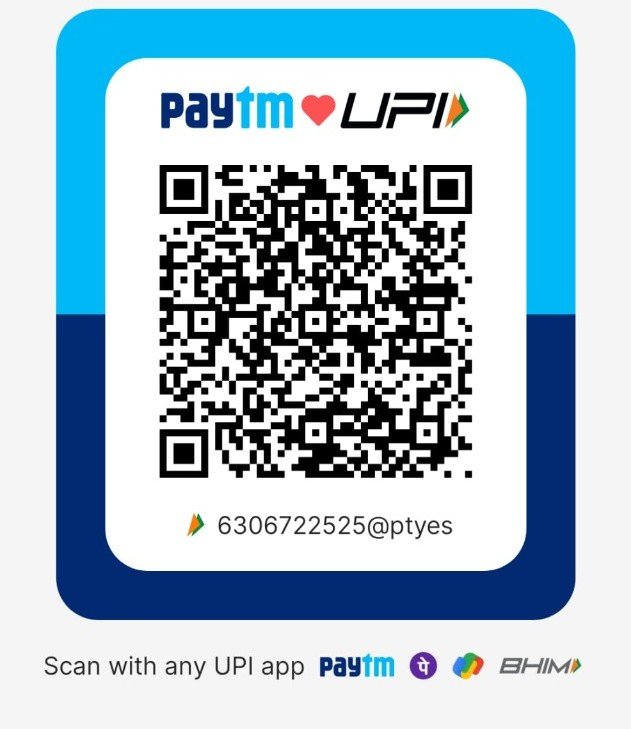
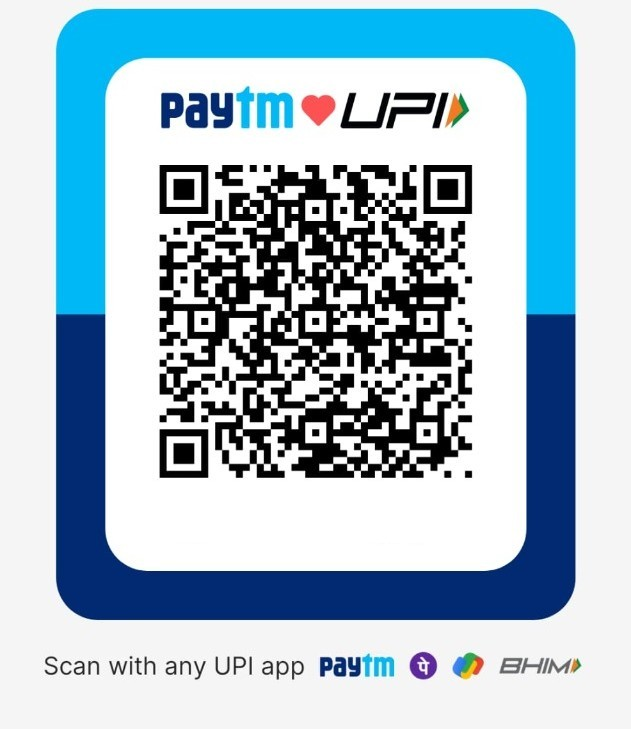
fix(payment): remove UPI ID from QR image, booking modal, backend, and documentation

Changed region(s): [[0.3011, 0.6941, 0.7227, 0.7545]]

diff --git a/client/src/components/appointment/BookingModal.jsx b/client/src/components/appointment/BookingModal.jsx
@@ -136,14 +136,7 @@ export default function BookingModal({ doctor, isOpen, onClose, onBookingSuccess
     return `${String(mins).padStart(2, '0')}:${String(secs).padStart(2, '0')}`;
   };
 
-  // Copy UPI ID to clipboard
-  const handleCopyUPI = () => {
-    if (navigator.clipboard) {
-      navigator.clipboard.writeText('6306722525@ptyes');
-    }
-    setCopiedUpi(true);
-    setTimeout(() => setCopiedUpi(false), 2200);
-  };
+
 
   // Validate Step 1 and proceed to Step 2 (UPI Payment)
   const handleProceedToPayment = (e) => {
@@ -495,9 +488,9 @@ export default function BookingModal({ doctor, isOpen, onClose, onBookingSuccess
                 </div>
 
                 <div style={{ display: 'flex', justifyContent: 'space-between' }}>
-                  <span style={{ color: 'var(--slate-500)' }}>UPI ID:</span>
-                  <span style={{ fontFamily: 'monospace', fontWeight: 600, color: 'var(--slate-700)' }}>
-                    6306722525@ptyes
+                  <span style={{ color: 'var(--slate-500)' }}>Payment Method:</span>
+                  <span style={{ fontWeight: 600, color: 'var(--slate-700)' }}>
+                    UPI QR Code Payment
                   </span>
                 </div>
 
@@ -985,59 +978,9 @@ export default function BookingModal({ doctor, isOpen, onClose, onBookingSuccess
                   />
                 </div>
 
-                {/* UPI ID & Quick Copy Strip */}
-                <div
-                  style={{
-                    marginTop: '14px',
-                    display: 'inline-flex',
-                    alignItems: 'center',
-                    justifyContent: 'center',
-                    gap: '8px',
-                    background: '#f8fafc',
-                    border: '1px solid #e2e8f0',
-                    borderRadius: '30px',
-                    padding: '6px 14px',
-                  }}
-                >
-                  <span style={{ fontSize: '0.76rem', color: 'var(--slate-500)', fontWeight: 600 }}>UPI ID:</span>
-                  <code style={{ fontSize: '0.84rem', fontWeight: 700, color: 'var(--slate-900)' }}>
-                    6306722525@ptyes
-                  </code>
-                  <button
-                    type="button"
-                    onClick={handleCopyUPI}
-                    style={{
-                      background: copiedUpi ? '#dcfce7' : '#e0f2fe',
-                      color: copiedUpi ? '#15803d' : '#0369a1',
-                      border: 'none',
-                      borderRadius: '20px',
-                      padding: '3px 9px',
-                      fontSize: '0.72rem',
-                      fontWeight: 700,
-                      cursor: 'pointer',
-                      display: 'inline-flex',
-                      alignItems: 'center',
-                      gap: '4px',
-                      transition: 'var(--transition)',
-                    }}
-                  >
-                    {copiedUpi ? (
-                      <>
-                        <Check size={12} />
-                        <span>Copied!</span>
-                      </>
-                    ) : (
-                      <>
-                        <Copy size={12} />
-                        <span>Copy</span>
-                      </>
-                    )}
-                  </button>
-                </div>
-
                 {/* Instructions */}
-                <div style={{ marginTop: '12px', fontSize: '0.78rem', color: 'var(--slate-500)' }}>
-                  Scan using <strong>Paytm</strong>, <strong>PhonePe</strong>, <strong>Google Pay</strong>, or <strong>BHIM</strong>
+                <div style={{ marginTop: '16px', fontSize: '0.82rem', color: 'var(--slate-600)' }}>
+                  Scan with any UPI app: <strong>Paytm</strong>, <strong>PhonePe</strong>, <strong>Google Pay</strong>, or <strong>BHIM</strong>
                 </div>
               </div>
 

diff --git a/server/controllers/appointmentController.js b/server/controllers/appointmentController.js
@@ -88,7 +88,6 @@ exports.bookAppointment = async (req, res, next) => {
       paymentStatus: 'paid',
       paymentMethod: paymentMethod || 'UPI_QR',
       transactionId: transactionId || `UPI${Date.now()}${Math.floor(1000 + Math.random() * 9000)}`,
-      upiId: '6306722525@ptyes',
     });
 
     // Update the slot inside Availability collection

diff --git a/server/models/Appointment.js b/server/models/Appointment.js
@@ -81,7 +81,7 @@ const appointmentSchema = new mongoose.Schema(
     },
     upiId: {
       type: String,
-      default: '6306722525@ptyes',
+      default: '',
     },
     isReviewed: {
       type: Boolean,

diff --git a/README.md b/README.md
@@ -13,7 +13,7 @@
 - **Consultation & Digital Rx**: Symptom tracking, clinical diagnosis, interactive medicine schedules, and print-ready digital prescriptions.
 - **Enterprise JWT Security & RBAC**: Strict Bearer token authorization, role-based access control (Patient, Doctor, Admin), and anti-IDOR protections.
 - **Real Email OTP Password Recovery**: Automated 6-digit verification codes sent directly to user email addresses via Nodemailer (Gmail / SMTP / Resend).
-- **Paytm UPI QR Code Payment**: Integrated authentic UPI QR payment (`6306722525@ptyes` / Care Connect Hospital Reception) with countdown timer, copyable UPI ID, UTR reconciliation, and print-ready receipts.
+- **Paytm UPI QR Code Payment**: Integrated authentic UPI QR payment (Care Connect Hospital Reception) with countdown timer, UTR reconciliation, and print-ready receipts.
 - **Breach-Resistant Password Security**: Client and server-side breach detection against known leaked passwords, preventing browser security pop-ups.
 - **Modular Responsive Architecture**: Seamless experience across **Mobile**, **Tablet**, and **Desktop** screens with a modern glassmorphic medical UI design.
 
@@ -23,7 +23,7 @@
 
 | Feature | Description |
 |---|---|
-| 💳 **UPI QR Code Payment** | Authentic Paytm UPI QR code payment flow (`6306722525@ptyes` - Care Connect Hospital Reception) for consultation fees with 1-click UPI copy, optional 12-digit UTR input, and printable booking receipts. |
+| 💳 **UPI QR Code Payment** | Authentic Paytm UPI QR code payment flow (Care Connect Hospital Reception) for consultation fees with optional 12-digit UTR input, real-time slot reservation, and printable booking receipts. |
 | 📍 **Pincode Proximity Engine** | Search by 6-digit Indian postal code (e.g. `110001`, `201204`, `201001`, `250001`) with configurable radius (Exact, 10km, 30km, 50km) and distance badges (e.g. `📍 1.2 km away`). |
 | 📅 **Dynamic Slot Engine** | Shifts (Morning/Evening), break periods, custom durations (15m, 30m, 45m, 60m), real-time booking locks, and slot recycling upon cancellation. |
 | 💊 **Digital Prescription Builder** | Clinicians create structured prescriptions: medicine name, dosage, frequency (`1-0-1 After food`), duration, instructions, and printable Rx sheets. |
